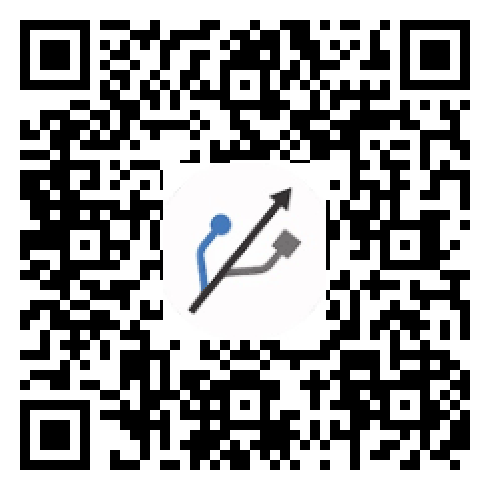
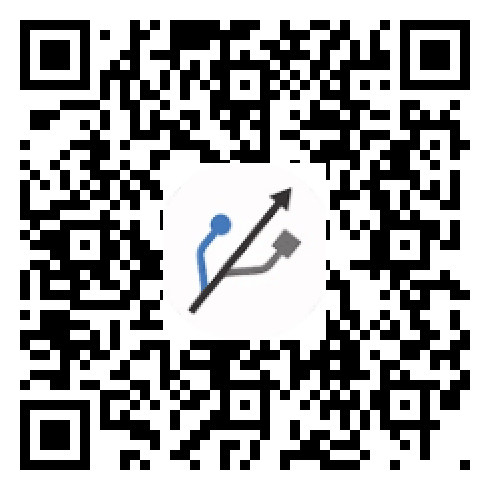
final qr code fix

Changed region(s): [[0.0306, 0.0306, 0.9796, 0.9796], [0.6429, 0.4898, 0.6735, 0.5204]]

diff --git a/application/views/barang_inventory_read.php b/application/views/barang_inventory_read.php
@@ -6,7 +6,7 @@
     <table>
       <tr>
         <td colspan="3">
-          <img class="profile-user-img img-responsive" width="100" src="<?= base_url('assets/img/qr/QR.png') ?>" alt="">
+          <img class="profile-user-img img-responsive" width="100" src="<?= base_url($qrcode) ?>" alt="qrcode">
         </td>
       </tr>
       <tr>
@@ -34,7 +34,7 @@
       <!-- Profile Image -->
       <div class="box box-primary">
         <div class="box-body box-profile">
-          <img class="profile-user-img img-responsive" src="<?= base_url('assets/img/qr/QR.png') ?>" alt="">
+          <img class="profile-user-img img-responsive" src="<?= base_url($qrcode) ?>" alt="">
           <h3 class="profile-username text-center"><?php echo $nama_barang; ?></h3>
           <p class="text-muted text-center"><?php echo $nomor; ?></p>
           <hr>

diff --git a/application/controllers/Barang_inventory.php b/application/controllers/Barang_inventory.php
@@ -110,7 +110,7 @@ class Barang_inventory extends CI_Controller
                     'lokasi' => $row->ruang . ', Lantai ' . $row->nomor_lantai,
                     'spesifikasi' => $row->spesifikasi,
                     'status' => $row->status,
-                    'qrcode' => $params['savename'] . '?id=' . $row->id,
+                    'qrcode' => 'assets/img/qr/QR.png?id=' . $id,
                     'maintenance_history' => $history,
                     'guest' => $guest,
                 );
